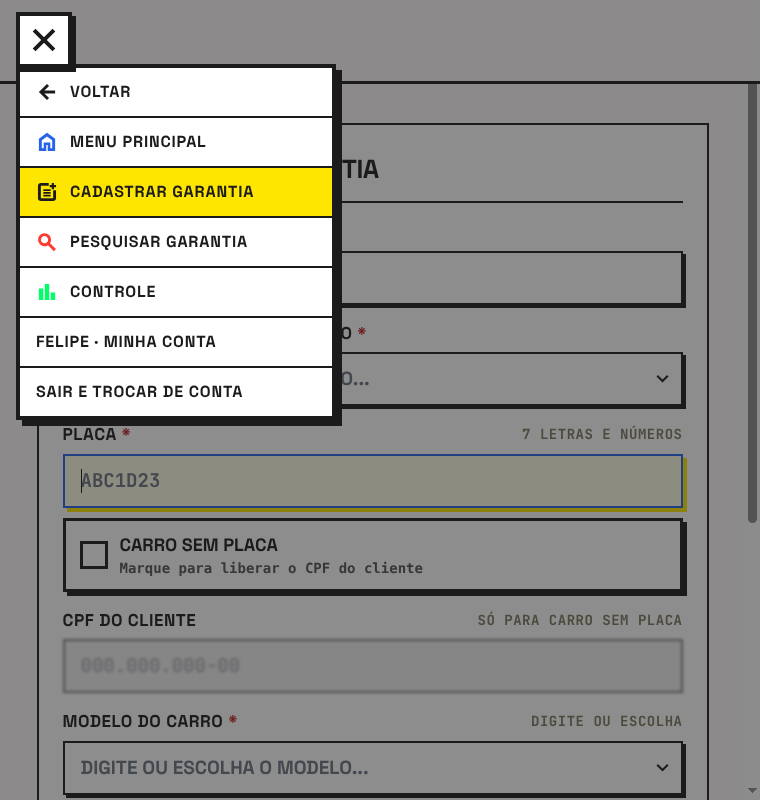
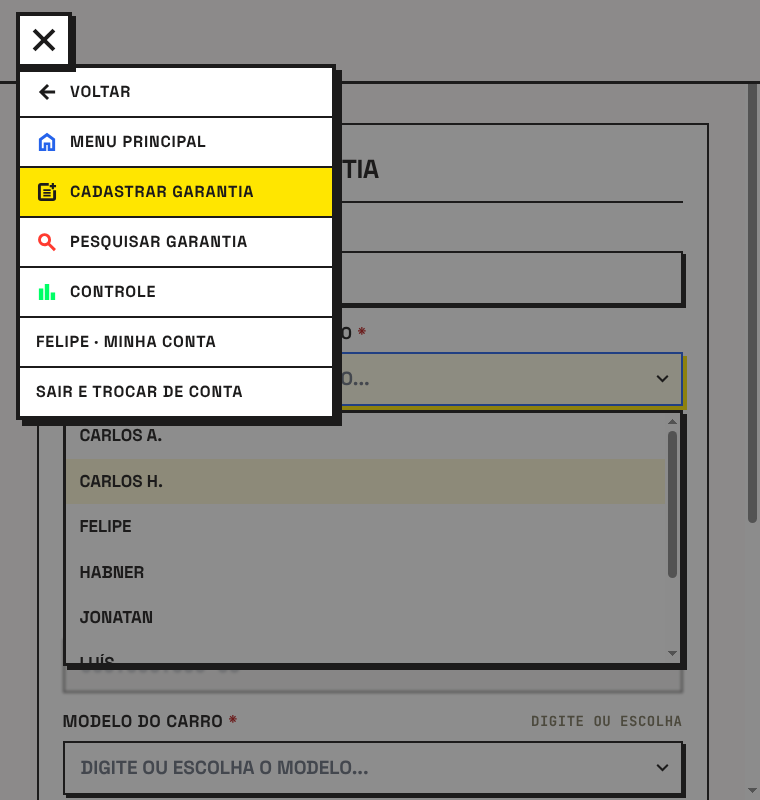
fix: cadastro de garantia comeca no TECNICO com a lista aberta e o rotulo do CPF travado fica apagado
Claude-Session: https://claude.ai/code/session_01NUq2fGscdhbEodN3JA1uYc

Changed region(s): [[0.0605, 0.4375, 0.9079, 0.8438]]

diff --git a/frontend/ts/telas/cadastrar-garantia.ts b/frontend/ts/telas/cadastrar-garantia.ts
@@ -184,7 +184,21 @@ function atualizarSemPlaca(focar = true): void {
   el("placa-obrigatoria").classList.toggle("hidden", sem);
   el("cpf-obrigatorio").classList.toggle("hidden", !sem);
   el("cpf-dica").textContent = sem ? "11 NÚMEROS" : "SÓ PARA CARRO SEM PLACA";
+  // o ROTULO do campo travado tambem fica apagado (pedido do usuario, 2026-11-25: o
+  // "CPF DO CLIENTE" escuro confundia, parecia que tinha de preencher)
+  document.querySelector('label[for="cpf"]')?.classList.toggle("rotulo-form--desligado", !sem);
+  document.querySelector('label[for="placa"]')?.classList.toggle("rotulo-form--desligado", sem);
   if (focar) (sem ? cpf : placa).focus();
+}
+
+/**
+ * O formulario comeca pelo TECNICO QUE REALIZOU O SERVICO, com a lista ja aberta (pedido do
+ * usuario, 2026-11-25); antes comecava na placa. Sem a caixa (lista ainda nao montada), a placa.
+ */
+function focarInicio(): void {
+  const campo = caixaTecnico?.campo;
+  if (campo) campo.focus();
+  else el<HTMLInputElement>("placa").focus();
 }
 
 /** Regra propria (sem consulta externa), igual a do servidor e do banco. `completo` = cobrar tambem o tamanho. */
@@ -301,10 +315,10 @@ function limpar(): void {
   abrirObservacao(false);
   trocarModeloOutro(false);
   caixaTecnico?.sincronizar();
-  atualizarSemPlaca();
+  atualizarSemPlaca(false);
   reiniciarProdutos();
   mostrarErros({});
-  el<HTMLInputElement>("placa").focus();
+  focarInicio();
 }
 
 /** Depois de salvar: a tela volta para o comeco do formulario (pedido do usuario). */
@@ -515,7 +529,7 @@ function iniciar(): void {
   }, true);
 
   void verificarApi();
-  void carregarListas().then(() => el<HTMLInputElement>("placa").focus());
+  void carregarListas().then(() => focarInicio());
   console.info("[Garantias] cadastro de garantia iniciado");
 }
 

diff --git a/desktop/smoke.js b/desktop/smoke.js
@@ -151,6 +151,11 @@ async function executar() {
   // ---------- CADASTRAR ----------
   await js("document.querySelector('a[data-path=\"cadastrar-garantia\"]').click()");
   teste("CADASTRAR GARANTIA abre o formulário", await telaPronta("cadastrar-garantia"));
+  teste("Cadastro começa no TÉCNICO, com a lista aberta (não na placa)", await esperarPredicado(
+    "document.activeElement && document.activeElement.closest('.caixa-busca') && document.activeElement.closest('.caixa-busca').contains(document.getElementById('tecnico'))"
+    + " && !document.querySelector('#tecnico').closest('.caixa-busca').querySelector('.caixa-busca__lista').classList.contains('hidden')", 5000));
+  teste("Rótulo CPF DO CLIENTE apagado enquanto o CPF está travado", await js("document.querySelector('label[for=cpf]').classList.contains('rotulo-form--desligado') && parseFloat(getComputedStyle(document.querySelector('label[for=cpf]')).opacity) < 0.6"));
+  await capturar("cadastro-comeca-no-tecnico-1366x820");
   teste("Técnicos, modelos e serviços carregados", await esperarPredicado("document.body.dataset.listasCarregadas === 'true'"));
   teste("Letras maiores no formulário (rótulos >= 17px, campos >= 19px)", await js("parseFloat(getComputedStyle(document.querySelector('#form-garantia .rotulo-form')).fontSize) >= 17 && parseFloat(getComputedStyle(document.getElementById('placa')).fontSize) >= 19"));
   teste("Rótulo: TÉCNICO QUE REALIZOU O SERVIÇO", (await texto("label[for=tecnico_busca]")).includes("TÉCNICO QUE REALIZOU O SERVIÇO"));

diff --git a/frontend/css/tailwind.input.css b/frontend/css/tailwind.input.css
@@ -1660,3 +1660,6 @@ textarea:not(.sem-maiusculas) {
   #tabelaPrecos td:nth-child(7) { align-items: flex-end; justify-content: flex-end; }
   #tabelaPrecos td input:not([type="checkbox"]) { width: 100%; }
 }
+
+/* rotulo do campo travado (CPF ate marcar "carro sem placa"; placa depois): apagado igual ao campo */
+.rotulo-form--desligado { opacity: 0.45; filter: blur(0.6px); }

diff --git a/docs/decisoes.md b/docs/decisoes.md
@@ -244,3 +244,7 @@ Registro das decisões de negócio e de arquitetura do Sistema de Garantias. Mai
 
 ## 2026-11-25 — "NOME NO RM" passa a se chamar "PRODUTO DO RM PARA QUALQUER CARRO"
 - Pedido do usuário: nome que diga para que serve. É o produto genérico do RM (ex.: CARCAÇA CANIVETE), usado quando o cupom não acha o produto do carro da garantia. Telas (Atualizar preços, Todos os produtos, Cadastrar produto) e mensagens do cupom usam o nome novo; a coluna no banco continua `nome_rm`.
+
+## 2026-11-25 — Cadastro de garantia começa no TÉCNICO; rótulo do CPF apagado
+- Ao abrir CADASTRAR GARANTIA (e depois de salvar, ao limpar o formulário) o foco vai para TÉCNICO QUE REALIZOU O SERVIÇO, com a lista já aberta (antes ia para a placa).
+- Enquanto o CPF está travado (carro com placa), o rótulo "CPF DO CLIENTE" fica apagado como o campo (`.rotulo-form--desligado`); marcando CARRO SEM PLACA, o apagado passa para o rótulo da PLACA.
